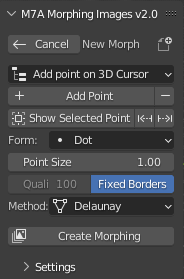
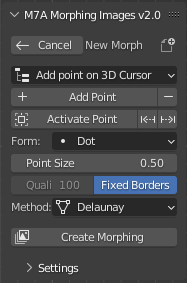
Add files via upload

diff --git a/morphing-images/m7a_morph_v2.py b/morphing-images/m7a_morph_v2.py
@@ -785,8 +785,8 @@ class m7a_morph_remove_line(operator):
 
 class m7a_morph_show_selected(operator):
     bl_idname       = '3dmish.morph_show_selected'
-    bl_label        = 'Show Selected Point'
-    bl_description  = 'Show Selected Point'
+    bl_label        = 'Activate Point'
+    bl_description  = 'Activate Selected Point'
 
     def execute(self, context):
         colored_points();
@@ -994,13 +994,14 @@ class m7a_morph_btn(operator):
             name = selected.name.split(".");
             num = int(name[2]) + int(self.bl_opt);
             bone_name = name[0] + "." + name[1] + "." + str(num);
-            self.report({'INFO'}, "Select next point: " + str(bone_name));
-            try:
+            if (bone_name in morph_armature.pose.bones):
+                self.report({'INFO'}, "Select next point: " + str(bone_name));
                 bpy.ops.pose.select_all(action='DESELECT');
                 #morph_armature.pose.bones.active = morph_armature.bones[bone_name].bone;
                 morph_armature.pose.bones[bone_name].bone.select = True;
                 bpy.ops.view3d.view_selected(use_all_regions=False);
-            except: pass
+            
+                for i in range(0, 23): bpy.ops.view3d.zoom(delta=-1);
             
         elif (self.bl_btn == "jump_to_back"):
             pass
